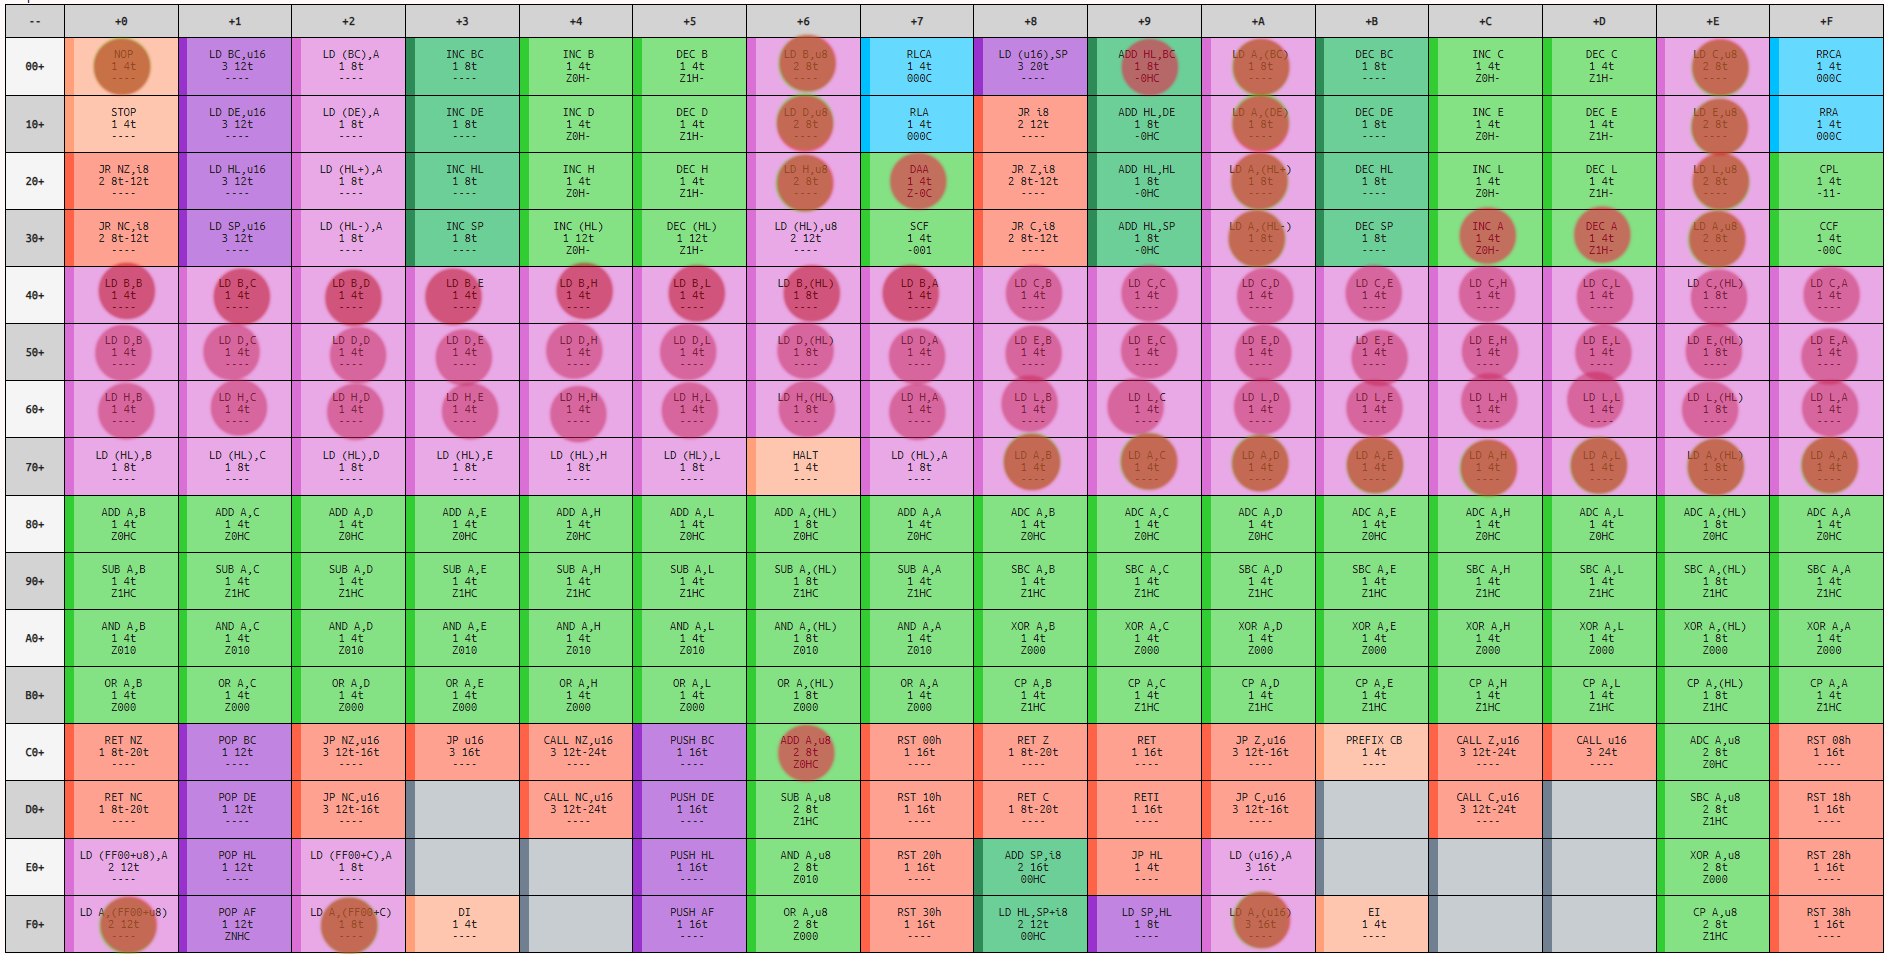
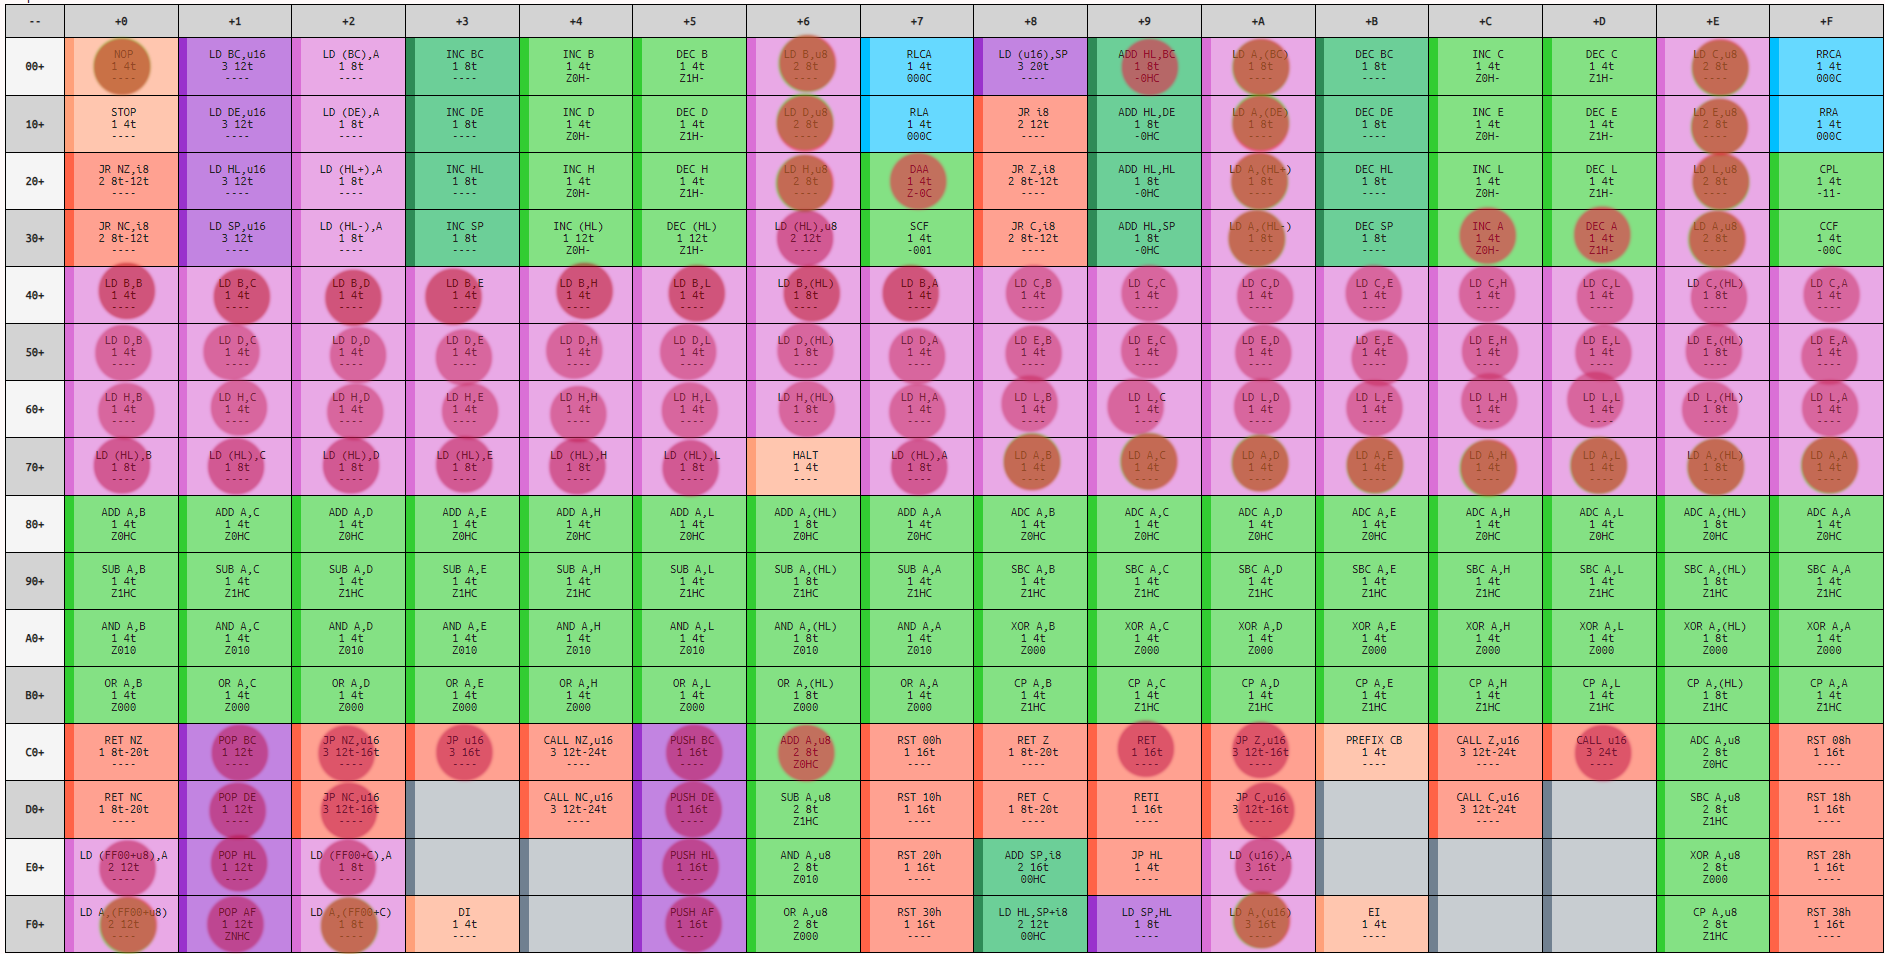
After first OK

diff --git a/core/cpu.cpp b/core/cpu.cpp
@@ -28,7 +28,7 @@ void cpu::step(std::array<uint8_t, 65536> &memory) // using std::array instead o
     switch (opcode)
     {
 
-    case 0x00: // NOP... Nothing... Absolutely Nothing
+    case 0x00: // NOP... Nothing... Absolutely Nothing TODO
         lastCycles = 4;
         break;
 
@@ -400,7 +400,7 @@ void cpu::step(std::array<uint8_t, 65536> &memory) // using std::array instead o
         uint16_t addr = 0xFF00 + memory[PC]; // Adress is composed of 0xFF00 and the Byte next to the Opcode
         A = memory[addr];
         PC++;
-        lastCycles = 8;
+        lastCycles = 12;
         break;
     }
 
@@ -409,6 +409,82 @@ void cpu::step(std::array<uint8_t, 65536> &memory) // using std::array instead o
         uint16_t addr = 0xFF00 + C; // Adress is composed of 0xFF00 and C Reg and no following Byte -> no PC++ needed
         A = memory[addr];
         lastCycles = 8;
+        break;
+    }
+
+        // ------------- LD rr,A ----------------
+
+    case 0xE0: // LD (FF00+u8),A Load Value in A Reg into Memory at Adress FF00+u8
+    {
+        uint16_t addr = 0xFF00 + memory[PC]; // Adress is composed of 0xFF00 and the Byte next to the Opcode
+        memory[addr] = A;
+        PC++;
+        lastCycles = 12;
+        break;
+    }
+
+    case 0xE2: // LD (FF00+C),A Load Value in A Reg into Memory at  Adress FF00+C
+    {
+        uint16_t addr = 0xFF00 + C; // Adress is composed of 0xFF00 and C Reg and no following Byte -> no PC++ needed
+        memory[addr] = A;
+        lastCycles = 8;
+        break;
+    }
+
+        // ------------- LD (HL),r ----------------
+
+    case 0x70: // LD (HL),B <- Brackets in the name mean that is has to load the Value from B Reg into Memory at addr HL
+        memory[getHL()] = B;
+        lastCycles = 8;
+        break;
+
+    case 0x71:
+        memory[getHL()] = C;
+        lastCycles = 8;
+        break;
+
+    case 0x72:
+        memory[getHL()] = D;
+        lastCycles = 8;
+        break;
+
+    case 0x73:
+        memory[getHL()] = E;
+        lastCycles = 8;
+        break;
+
+    case 0x74:
+        memory[getHL()] = H;
+        lastCycles = 8;
+        break;
+
+    case 0x75:
+        memory[getHL()] = L;
+        lastCycles = 8;
+        break;
+
+    case 0x77:
+        memory[getHL()] = A;
+        lastCycles = 8;
+        break;
+
+    case 0x36: // LD (HL),u8 Load u8 into Memory at addr HL
+        memory[getHL()] = memory[PC];
+        lastCycles = 12;
+        PC++;
+        break;
+
+        // ------------- LD (u16),r ----------------
+
+    case 0xEA:                           // LD (u16),A Value at A Reg gets loaded to memory at 16bit Adress
+    {                                    // In Memory: [Opcode 0xEA] [Low Byte] [High Byte]
+        uint16_t addr = memory[PC];      // Low Byte -> addr
+        PC++;                            // PC shifted to High Byte
+        addr = addr | (memory[PC] << 8); // High byte gets shifted left and then merged with Low Byte (in addr)
+        // Before: [Low Byte] [High Byte] -> After shift + merge -> 0x[High Byte] [Low Byte]
+        memory[addr] = A; // Value at A Reg into addr
+        PC++;
+        lastCycles = 16;
         break;
     }
 
@@ -512,8 +588,229 @@ void cpu::step(std::array<uint8_t, 65536> &memory) // using std::array instead o
         break;
     }
 
+        // ------------- PUSH ----------------
+
+    case 0xC5: // PUSH BC Pushes BC Joint Reg into Stack
+    {
+        SP--;
+        memory[SP] = C;
+        SP--;
+        memory[SP] = B;
+        lastCycles = 16;
+        break;
+    }
+
+    case 0xD5: // PUSH DE Pushes DE Joint Reg into Stack
+    {
+        SP--;
+        memory[SP] = E;
+        SP--;
+        memory[SP] = D;
+        lastCycles = 16;
+        break;
+    }
+
+    case 0xE5: // PUSH HL Pushes HL Joint Reg into Stack
+    {
+        SP--;
+        memory[SP] = L;
+        SP--;
+        memory[SP] = H;
+        lastCycles = 16;
+        break;
+    }
+
+    case 0xF5: // PUSH AF Pushes AF Joint Reg into Stack
+    {
+        SP--;
+        memory[SP] = F;
+        SP--;
+        memory[SP] = A;
+        lastCycles = 16;
+        break;
+    }
+
+        // ------------- POP ----------------
+
+    case 0xC1: // POP BC POPs from Stack into Joint Reg BC
+    {
+        C = memory[SP];
+        SP++;
+        B = memory[SP];
+        SP++;
+        lastCycles = 12;
+        break;
+    }
+
+    case 0xD1: // POP DE POPs from Stack into Joint Reg DE
+    {
+        E = memory[SP];
+        SP++;
+        D = memory[SP];
+        SP++;
+        lastCycles = 12;
+        break;
+    }
+
+    case 0xE1: // POP HL POPs from Stack into Joint Reg HL
+    {
+        L = memory[SP];
+        SP++;
+        H = memory[SP];
+        SP++;
+        lastCycles = 12;
+        break;
+    }
+
+    case 0xF1: // POP AF POPs from Stack into Joint Reg AF
+    {
+        F = memory[SP];
+        SP++;
+        A = memory[SP];
+        SP++;
+        lastCycles = 12;
+        break;
+    }
+
+        // ------------- CALL ----------------
+
+    case 0xCD: // CALL u16 Jumps Program to 16bit addr, saves the jumpoff location into Stack
+    {
+        uint16_t addr = 0;
+        addr = memory[PC];
+        PC++;
+        addr = addr | (memory[PC] << 8);
+        PC++;
+
+        SP--;
+        memory[SP] = (PC & 0xFF00) >> 8;
+        SP--;
+        memory[SP] = (PC & 0x00FF);
+
+        PC = addr;
+
+        lastCycles = 24;
+        break;
+    }
+
+        // ------------- RET ----------------
+
+    case 0xC9: // RET ... POPs Return Adress from Stack and jumps back
+    {
+        uint16_t addr = 0;
+
+        addr = memory[SP];
+        SP++;
+        addr = addr | (memory[SP] << 8);
+        SP++;
+
+        PC = addr;
+
+        lastCycles = 16;
+        break;
+    }
+
+        // ------------- JP ----------------
+
+    case 0xC3: // JP u16 Jumps PC unconditionally to 16bit Address
+    {
+        uint16_t addr = 0;
+        addr = memory[PC];
+        PC++;
+        addr = addr | (memory[PC] << 8);
+        PC++;
+        PC = addr;
+
+        lastCycles = 16;
+        break;
+    }
+
+    case 0xCA: // JP Z,u16 Jumps PC to 16bit Address only if Zero Flag is True
+    {
+        uint16_t addr = 0;
+        addr = memory[PC];
+        PC++;
+        addr = addr | (memory[PC] << 8);
+        PC++;
+
+        if (getZeroFlag() == true)
+        {
+            PC = addr;
+            lastCycles = 16;
+        }
+        else
+        {
+            lastCycles = 12;
+        }
+
+        break;
+    }
+
+    case 0xDA: // JP C,u16 Jumps PC to 16bit Address only if Carry Flag is True
+    {
+        uint16_t addr = 0;
+        addr = memory[PC];
+        PC++;
+        addr = addr | (memory[PC] << 8);
+        PC++;
+
+        if (getCarryFlag() == true)
+        {
+            PC = addr;
+            lastCycles = 16;
+        }
+        else
+        {
+            lastCycles = 12;
+        }
+
+        break;
+    }
+
+    case 0xC2: // JP NZ,u16 Jumps PC to 16bit Address only if Zero Flag is False
+    {
+        uint16_t addr = 0;
+        addr = memory[PC];
+        PC++;
+        addr = addr | (memory[PC] << 8);
+        PC++;
+
+        if (getZeroFlag() == false)
+        {
+            PC = addr;
+            lastCycles = 16;
+        }
+        else
+        {
+            lastCycles = 12;
+        }
+
+        break;
+    }
+
+    case 0xD2: // JP NC,u16 Jumps PC to 16bit Address only if Carry Flag is False
+    {
+        uint16_t addr = 0;
+        addr = memory[PC];
+        PC++;
+        addr = addr | (memory[PC] << 8);
+        PC++;
+
+        if (getCarryFlag() == false)
+        {
+            PC = addr;
+            lastCycles = 16;
+        }
+        else
+        {
+            lastCycles = 12;
+        }
+
+        break;
+    }
+
     default:
-        lastCycles = 4; // TODO... just for testing, not legit GB behaviour
+        lastCycles = 4; // TODO... just for testing, not real GB behaviour
         break;
     }
 }
